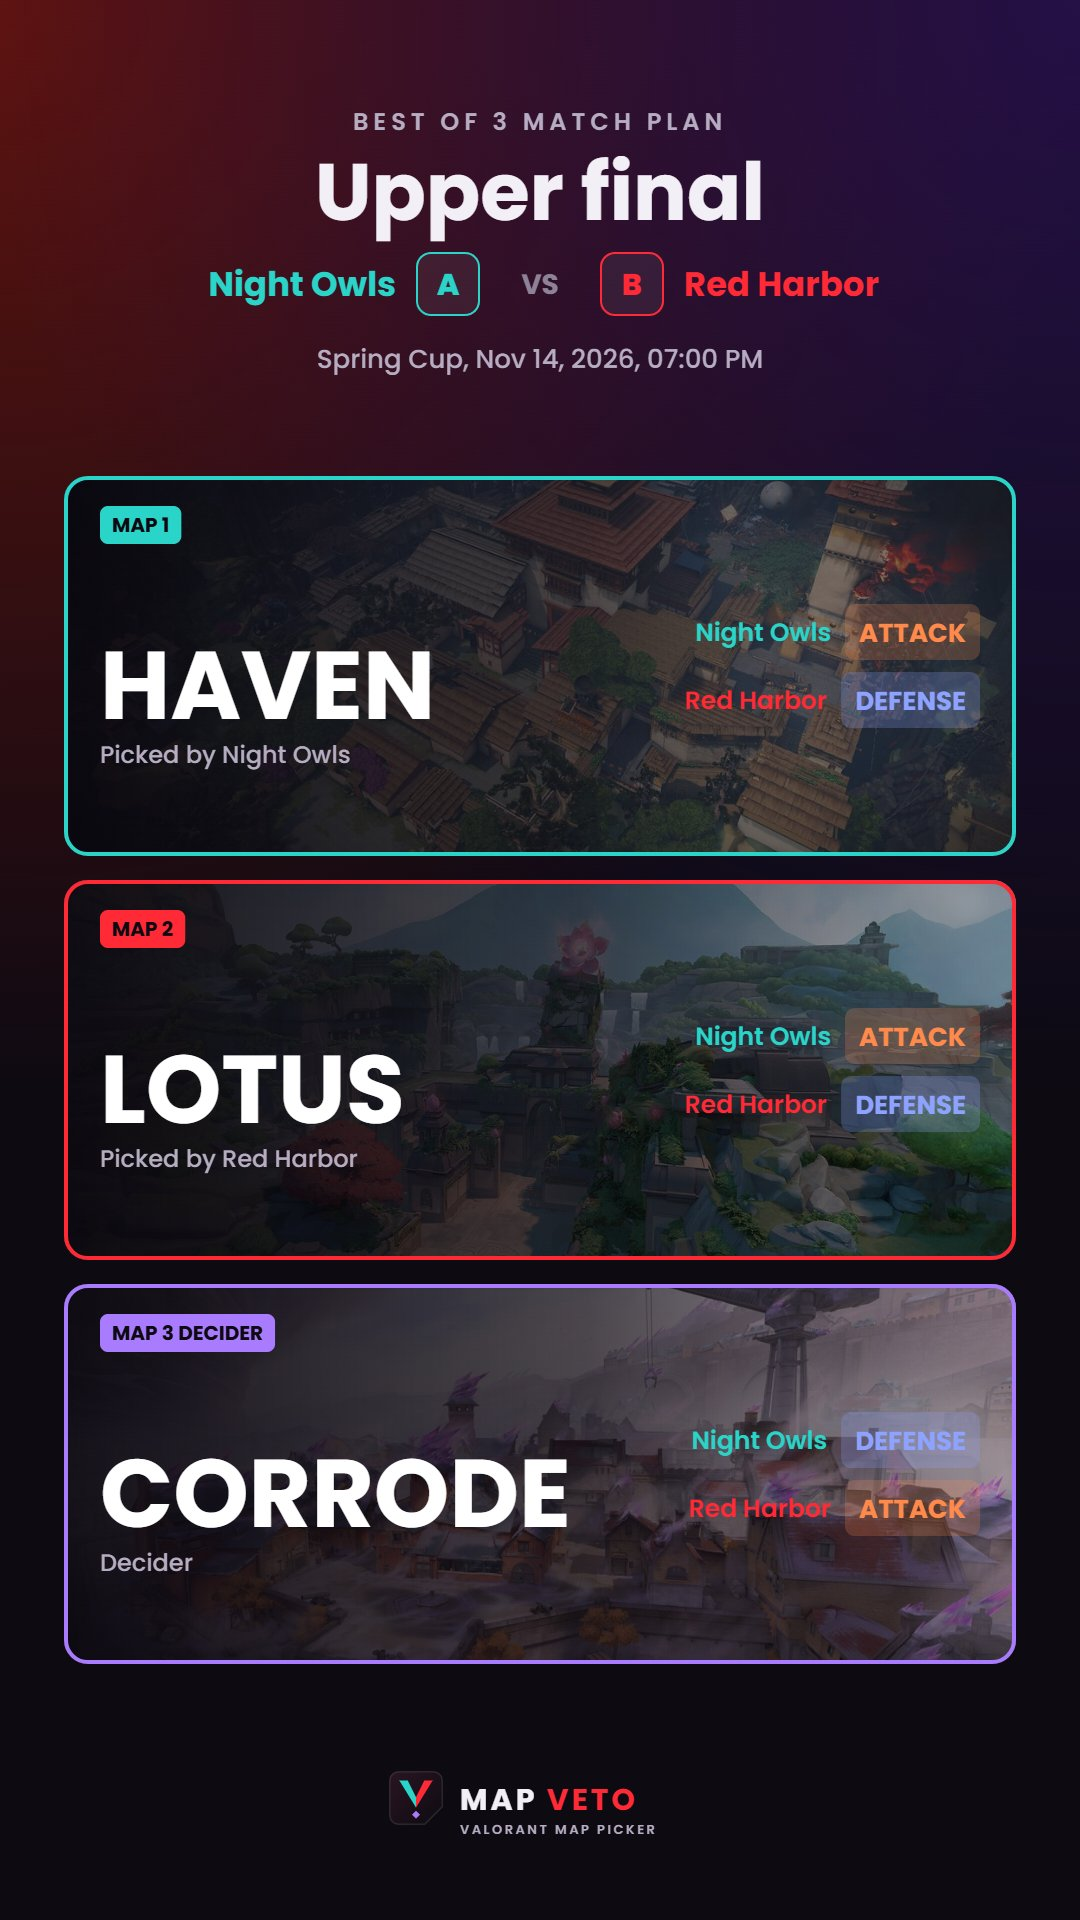
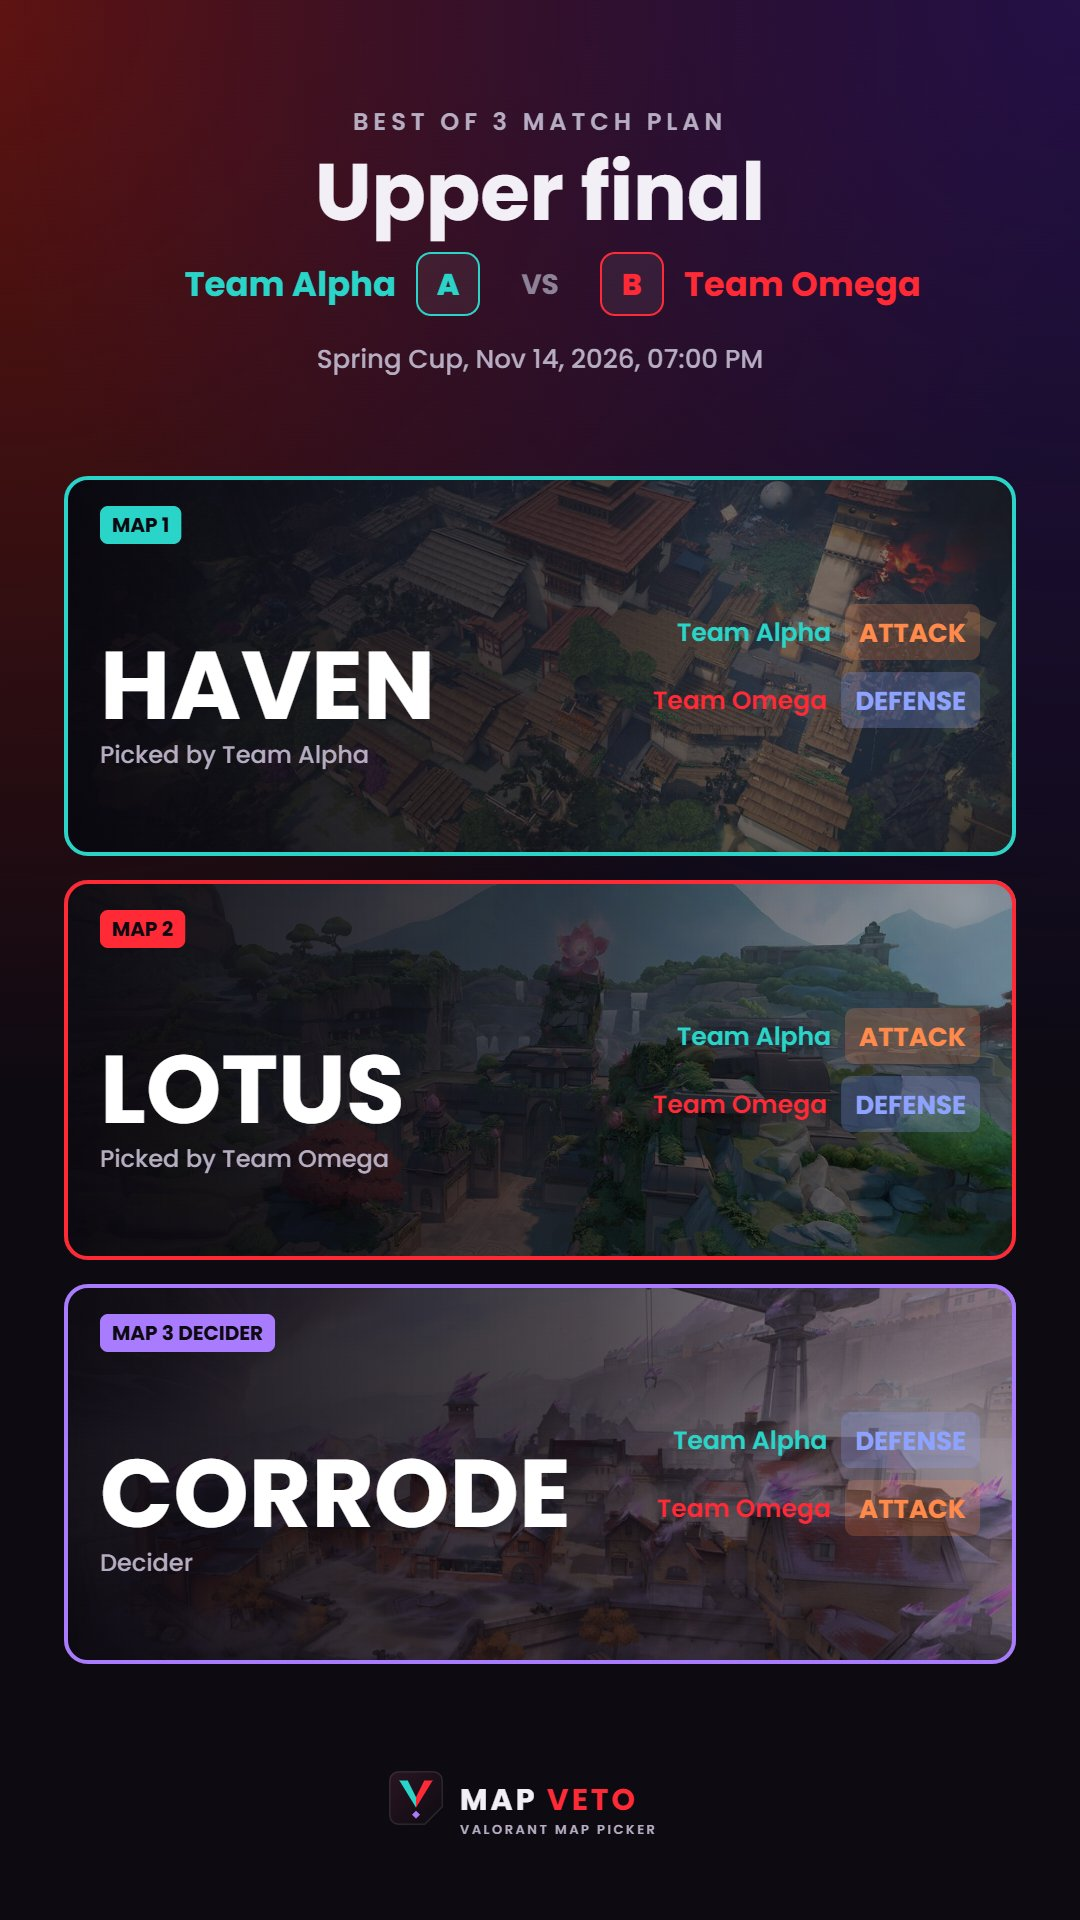
Use Team Alpha and Team Omega as the placeholder team names
Applies to the default setup, blank-name fallbacks, the landing demo and
the example plans. The team card's padding and badge shrink slightly
below 400px so two-word names fit on small phones. README media
recaptured with the new names.

diff --git a/src/components/VetoView.tsx b/src/components/VetoView.tsx
@@ -445,17 +445,17 @@ export function TeamCard({ team, name, hist, active, logo = '' }: { team: TeamId
   return (
     <div
       className={cn(
-        'flex min-w-0 items-center gap-3 rounded-xl border border-white/10 bg-card px-3 py-2.5 backdrop-blur-xl transition-[border-color,box-shadow,background-color] duration-300 sm:px-4 sm:py-3',
+        'flex min-w-0 items-center gap-2 rounded-xl border border-white/10 bg-card px-2 py-2.5 min-[400px]:px-2.5 backdrop-blur-xl transition-[border-color,box-shadow,background-color] duration-300 sm:gap-3 sm:px-4 sm:py-3',
         team === 1 && 'flex-row-reverse text-right lg:order-3',
         active && 'border-(--tc) bg-(--tc)/10 shadow-[0_0_0_1px_var(--tc),0_10px_36px_-12px_var(--tc)]',
       )}
       style={vars({ '--tc': TEAMC[team] })}
     >
-      <span className={cn('grid size-8 shrink-0 place-items-center overflow-hidden rounded-md text-sm font-extrabold text-ink sm:size-9 sm:text-base', logo ? 'bg-black/40' : 'bg-(--tc)')}>
+      <span className={cn('grid size-7 shrink-0 place-items-center overflow-hidden rounded-md text-sm font-extrabold text-ink min-[400px]:size-8 sm:size-9 sm:text-base', logo ? 'bg-black/40' : 'bg-(--tc)')}>
         <TeamMark i={team} url={logo} />
       </span>
       <div className="min-w-0">
-        <b className="block truncate text-base font-bold tracking-[-0.02em] sm:text-xl">{name}</b>
+        <b className="block truncate text-[0.9375rem] font-bold min-[400px]:text-base tracking-[-0.02em] sm:text-xl">{name}</b>
         <small className="text-xs text-muted-foreground tabular-nums">{bans} ban{bans === 1 ? '' : 's'}, {picks} pick{picks === 1 ? '' : 's'}</small>
       </div>
     </div>

diff --git a/src/pages/Landing.tsx b/src/pages/Landing.tsx
@@ -48,7 +48,7 @@ function SectionHead({ title, lead, aside }: { title: ReactNode; lead?: ReactNod
 }
 
 /* ================= hero: the broadcast veto wall ================= */
-const TEAMS = ['Phantoms', 'Vandals'] as const;
+const TEAMS = ['Team Alpha', 'Team Omega'] as const;
 const WALL = ['abyss', 'bind', 'corrode', 'haven', 'lotus', 'summit', 'sunset'];
 const PLAY: Action[] = [
   { k: 'ban', team: 0, map: 'bind' },
@@ -322,7 +322,7 @@ function CaptainVisual() {
         </svg>
         <span className="absolute inset-0 grid place-items-center text-sm font-bold text-ban motion-safe:animate-blink">4</span>
       </div>
-      <div className="min-w-0"><div className="text-xl font-bold tracking-[-0.02em] text-(--tc)">Vandals</div><div className="text-sm text-muted-foreground">Ban a map</div></div>
+      <div className="min-w-0"><div className="text-xl font-bold tracking-[-0.02em] text-(--tc)">Team Omega</div><div className="text-sm text-muted-foreground">Ban a map</div></div>
       <div className="ml-auto text-xs tracking-[0.12em] text-dim">STEP 2/7</div>
     </div>
   );
@@ -354,7 +354,7 @@ function TeamVisual() {
       <div className="flex items-center justify-between gap-3">
         <div>
           <p className="text-xs text-muted-foreground">Best of 3 match plan</p>
-          <h4 className="text-lg font-extrabold tracking-[-0.02em]">Phantoms vs Vandals</h4>
+          <h4 className="text-lg font-extrabold tracking-[-0.02em]">Team Alpha vs Team Omega</h4>
         </div>
         <LogoMark size={32} />
       </div>

diff --git a/src/components/ResultView.tsx b/src/components/ResultView.tsx
@@ -98,7 +98,7 @@ export function ResultView({ veto, onEdit, onReplay, onNew }: Props) {
               <span className="inline-flex items-center gap-2 text-(--tc)" style={vars({ '--tc': TEAMC[i] })}>
                 {logo(i) && <span className="grid size-8 place-items-center overflow-hidden rounded-md border border-(--tc) bg-black/40 text-sm"><TeamMark i={i} url={logo(i)} /></span>}
                 {editing
-                  ? <Input value={t[i]} onChange={e => rename(i, e.target.value)} onBlur={e => { if (!e.target.value.trim()) rename(i, i ? 'Team B' : 'Team A'); }} maxLength={24} aria-label={`Team ${i ? 'B' : 'A'} name`} className="w-44 text-center text-lg! font-bold text-(--tc)" />
+                  ? <Input value={t[i]} onChange={e => rename(i, e.target.value)} onBlur={e => { if (!e.target.value.trim()) rename(i, i ? 'Team Omega' : 'Team Alpha'); }} maxLength={24} aria-label={`Team ${i ? 'B' : 'A'} name`} className="w-44 text-center text-lg! font-bold text-(--tc)" />
                   : t[i]}
               </span>
             </Fragment>

diff --git a/src/components/SetupView.tsx b/src/components/SetupView.tsx
@@ -81,7 +81,7 @@ function Versus() {
     teams[i] = v;
     return { teams };
   });
-  const fixTeams = () => patch(s => ({ teams: [s.teams[0].trim() || 'Team A', s.teams[1].trim() || 'Team B'] }));
+  const fixTeams = () => patch(s => ({ teams: [s.teams[0].trim() || 'Team Alpha', s.teams[1].trim() || 'Team Omega'] }));
   const role = (i: TeamIdx) =>
     S.first === 'coin' ? 'Coin toss decides who acts first' : (S.first === 'a') === (i === 0) ? 'Acts first' : 'Acts second';
 
@@ -505,7 +505,7 @@ function MapPool() {
 function VetoOrder() {
   const { setup: S, patch } = useApp();
   const seq = getSeq(S), sim = simulate(S, seq);
-  const short = (t: TeamIdx) => S.teams[t] || (t ? 'Team B' : 'Team A');
+  const short = (t: TeamIdx) => S.teams[t] || (t ? 'Team Omega' : 'Team Alpha');
   const decSider = deciderSider(S, seq);
 
   const edit = (fn: (q: SeqStep[]) => void) => {

diff --git a/src/data/examples.ts b/src/data/examples.ts
@@ -10,7 +10,7 @@ const PICK_ORDER = ['haven', 'summit', 'sunset', 'lotus', 'corrode', 'abyss', 'b
 
 /** A finished example veto for a format, built with the default order, for the guide's replays. */
 export function examplePlan(format: Format): Payload {
-  const s = { ...defaultSetup(), title: `Example ${['', 'Bo1', 'Bo2', 'Bo3', '', 'Bo5'][format]}`, teams: ['Phantoms', 'Vandals'] as [string, string], format, pool: POOL, seq: null };
+  const s = { ...defaultSetup(), title: `Example ${['', 'Bo1', 'Bo2', 'Bo3', '', 'Bo5'][format]}`, teams: ['Team Alpha', 'Team Omega'] as [string, string], format, pool: POOL, seq: null };
   const hist: Action[] = [];
   for (let step = curStep(s, hist), n = 0; step && n < 40; step = curStep(s, hist), n++) {
     const left = remaining(s, hist);

diff --git a/src/data/maps.ts b/src/data/maps.ts
@@ -46,7 +46,7 @@ export const FORMATS: Record<Format, { label: string; name: string; d: string }>
 
 export const defaultSetup = (): Setup => ({
   title: '',
-  teams: ['Team Alpha', 'Team Bravo'],
+  teams: ['Team Alpha', 'Team Omega'],
   first: 'a',
   format: 3,
   pool: [...COMPETITIVE_POOL],
